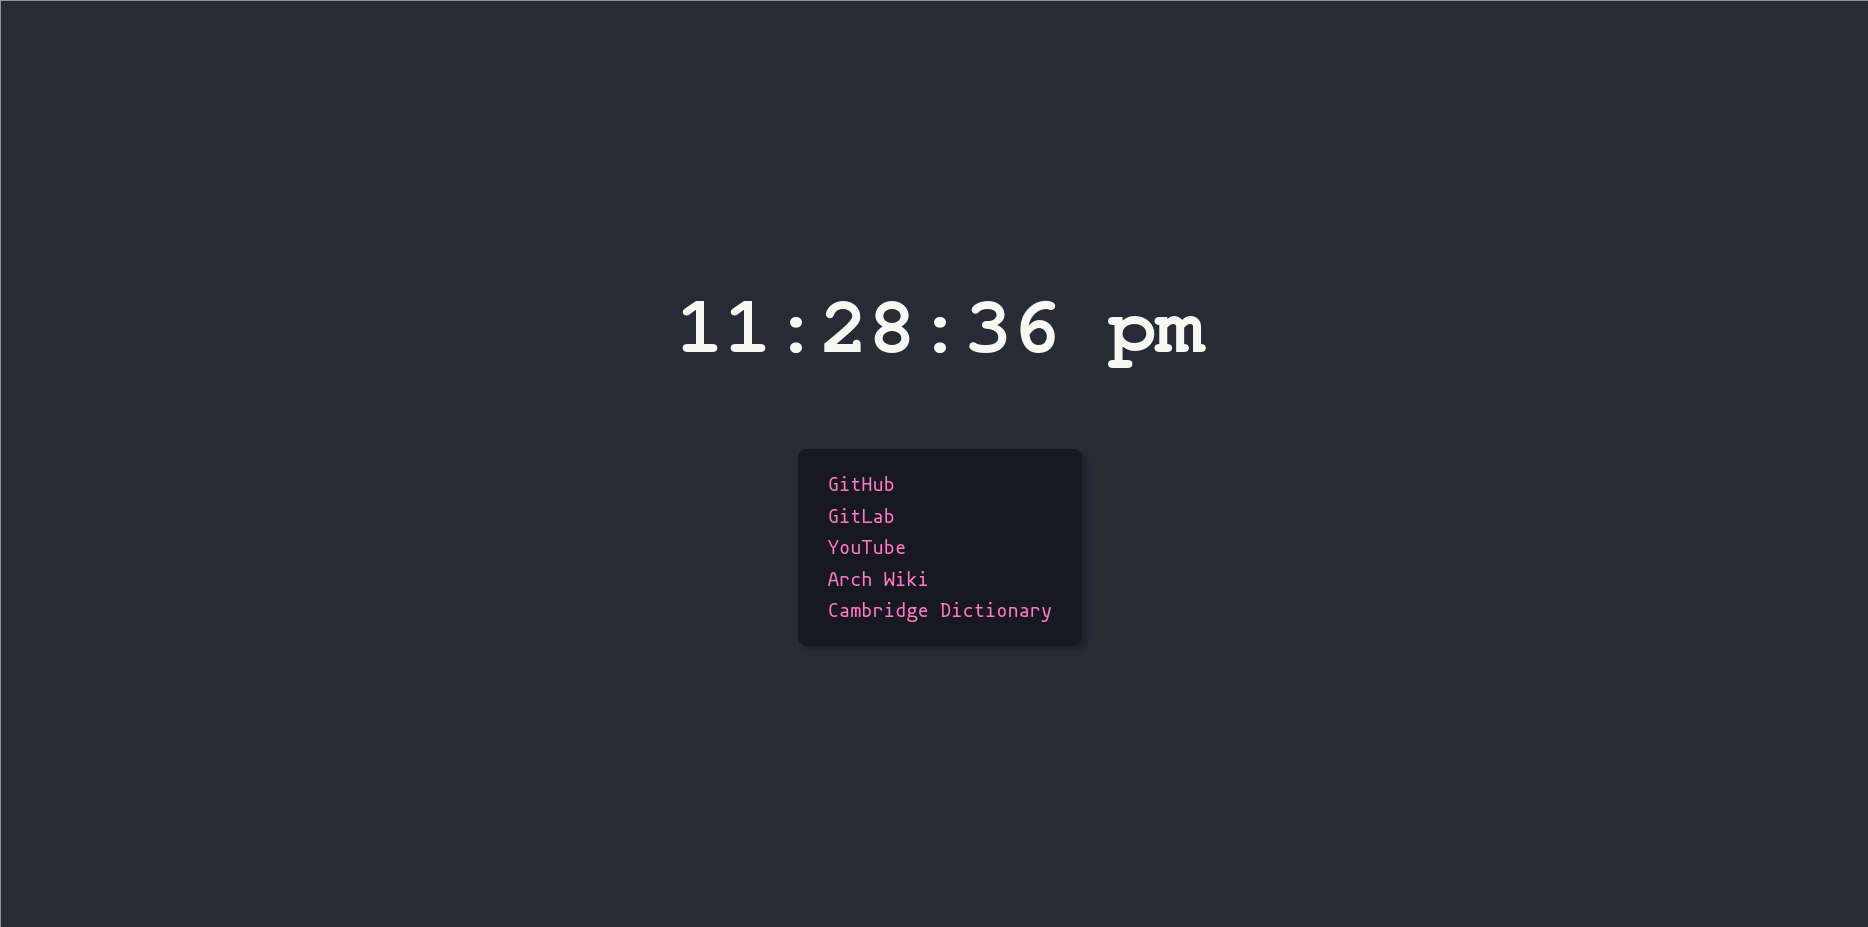
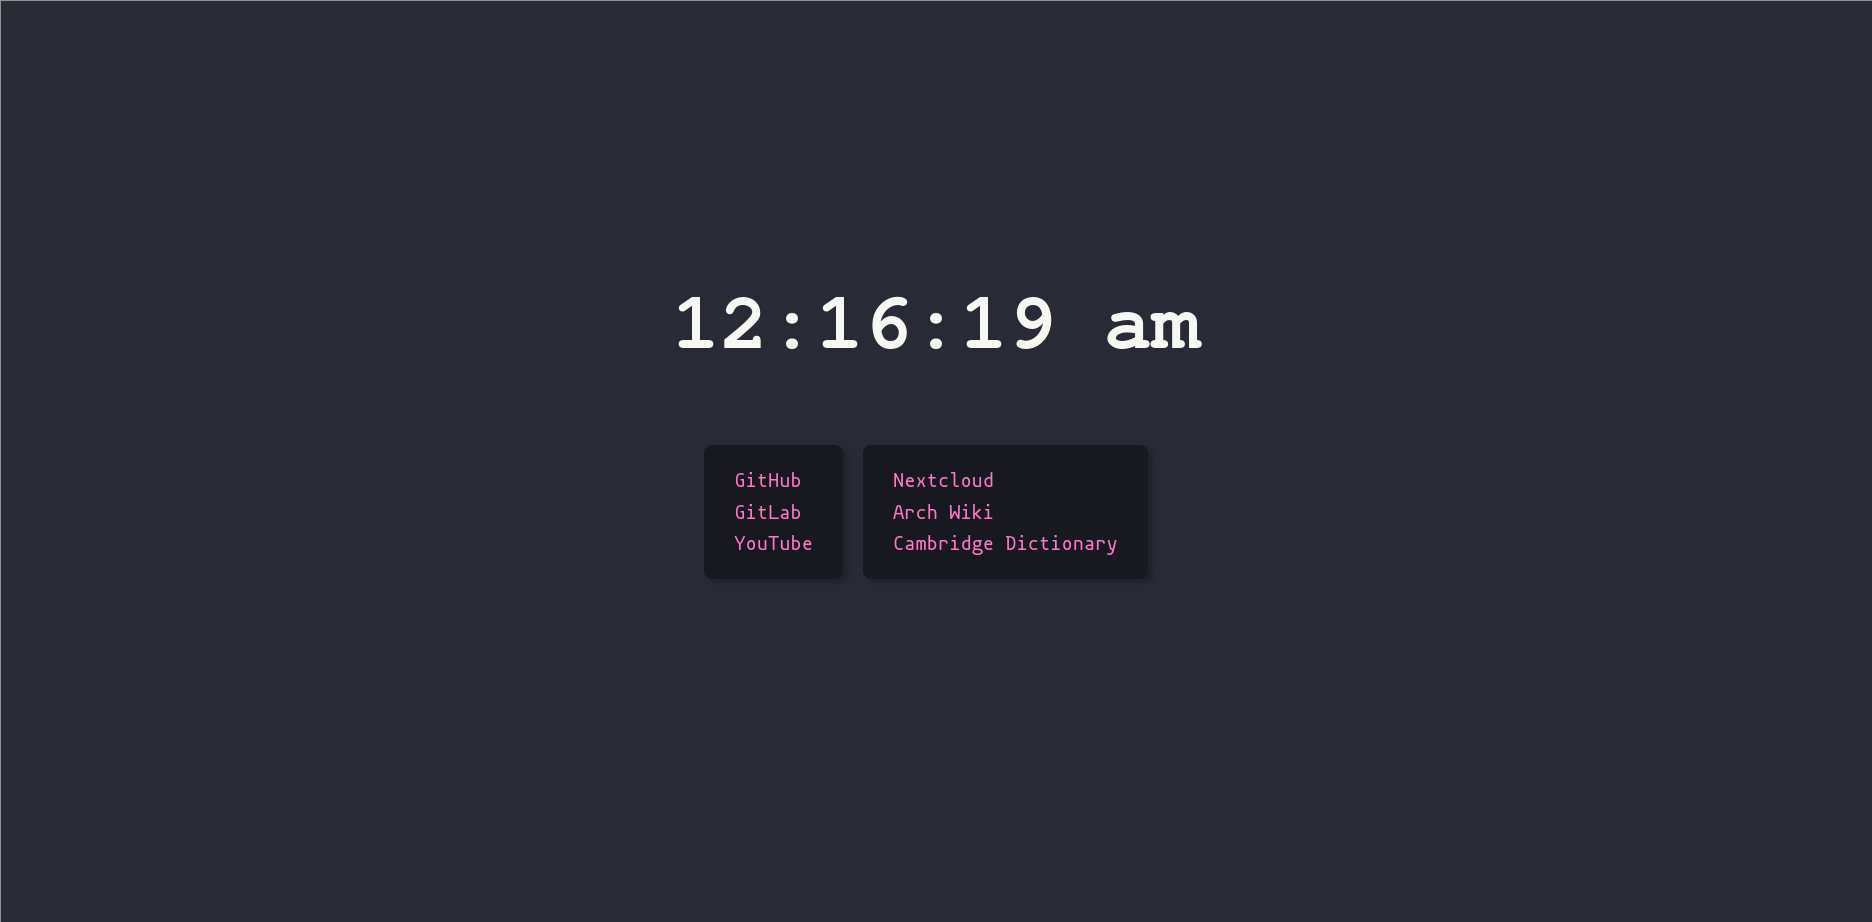
Added Nextcloud link.

Changed region(s): [[0.3415, 0.3037, 0.652, 0.3948], [0.4036, 0.5163, 0.5899, 0.6681]]

diff --git a/src/index.html b/src/index.html
@@ -8,24 +8,33 @@
 <body>
   <div class="main">
     <iframe src="https://free.timeanddate.com/clock/i84gok87/n601/fn12/fs80/fcf8f8f2/tct/pct/ftb/th2" frameborder="0" width="550" height="150" allowtransparency="true"></iframe>
-    <div class="box">
-      <ul>
-        <li>
-          <span><a href="https://github.com/rasteli">GitHub</a></span>
-        </li>
-        <li>
-          <span><a href="https://gitlab.com/glr01">GitLab</a></span>
-        </li>
-        <li>
-          <span><a href="https://youtube.com">YouTube</a></span>
-        </li>
-        <li>
-          <span><a href="https://wiki.archlinux.org/">Arch Wiki</a></span>
-        </li>
-         <li>
-          <span><a href="https://dictionary.cambridge.org/us/">Cambridge Dictionary</a></span>
-        </li>
-      </ul>
+    <div class="links">
+      <div class="box">
+        <ul>
+          <li>
+            <span><a href="https://github.com/rasteli">GitHub</a></span>
+          </li>
+          <li>
+            <span><a href="https://gitlab.com/glr01">GitLab</a></span>
+          </li>
+          <li>
+            <span><a href="https://youtube.com">YouTube</a></span>
+          </li>
+        </ul>
+      </div>
+      <div class="box">
+        <ul>
+          <li>
+            <span><a href="https://sam.nl.tab.digital/login">Nextcloud</a></span>
+          </li>
+          <li>
+            <span><a href="https://wiki.archlinux.org/">Arch Wiki</a></span>
+          </li>
+           <li>
+            <span><a href="https://dictionary.cambridge.org/us/">Cambridge Dictionary</a></span>
+          </li>
+        </ul>
+      </div>
     </div>
   </div>
 </body>

diff --git a/src/index.css b/src/index.css
@@ -18,10 +18,18 @@ body {
   justify-content: center;
 }
 
+.main .links {
+  display: flex;
+  flex-direction: row;
+  align-items: center;
+}
+
 .box {
   font-family: mononoki;
 
   margin-top: 20px;
+  margin-right: 20px;
+
   line-height: 30px;
   background: #181920;
 
